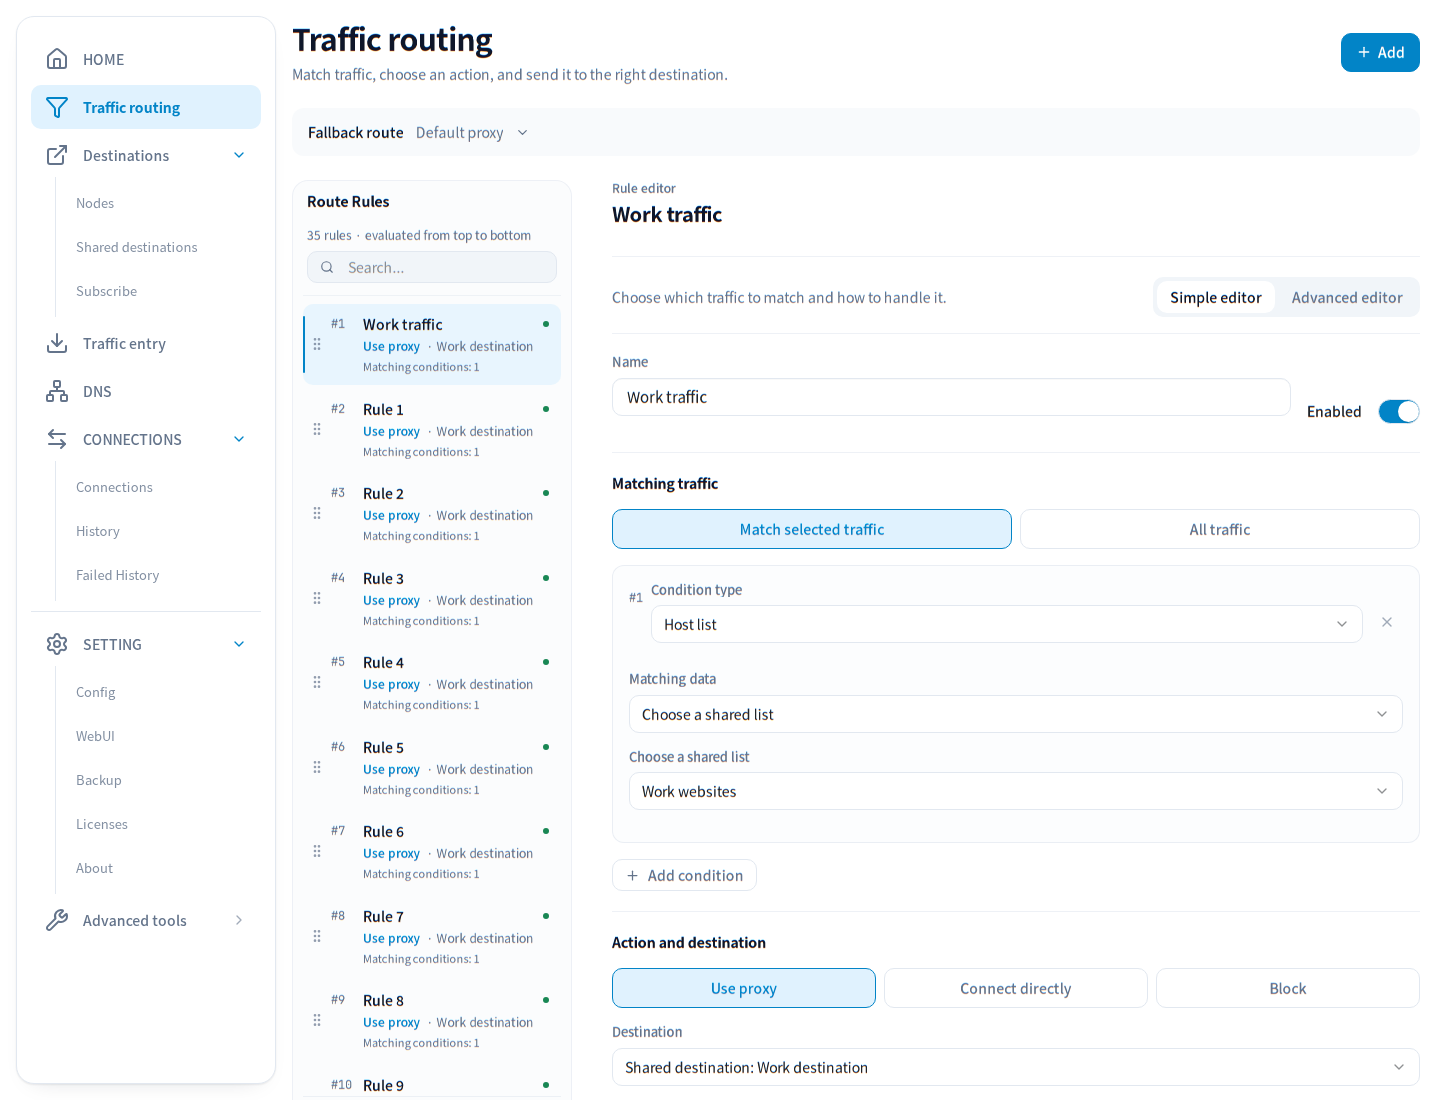
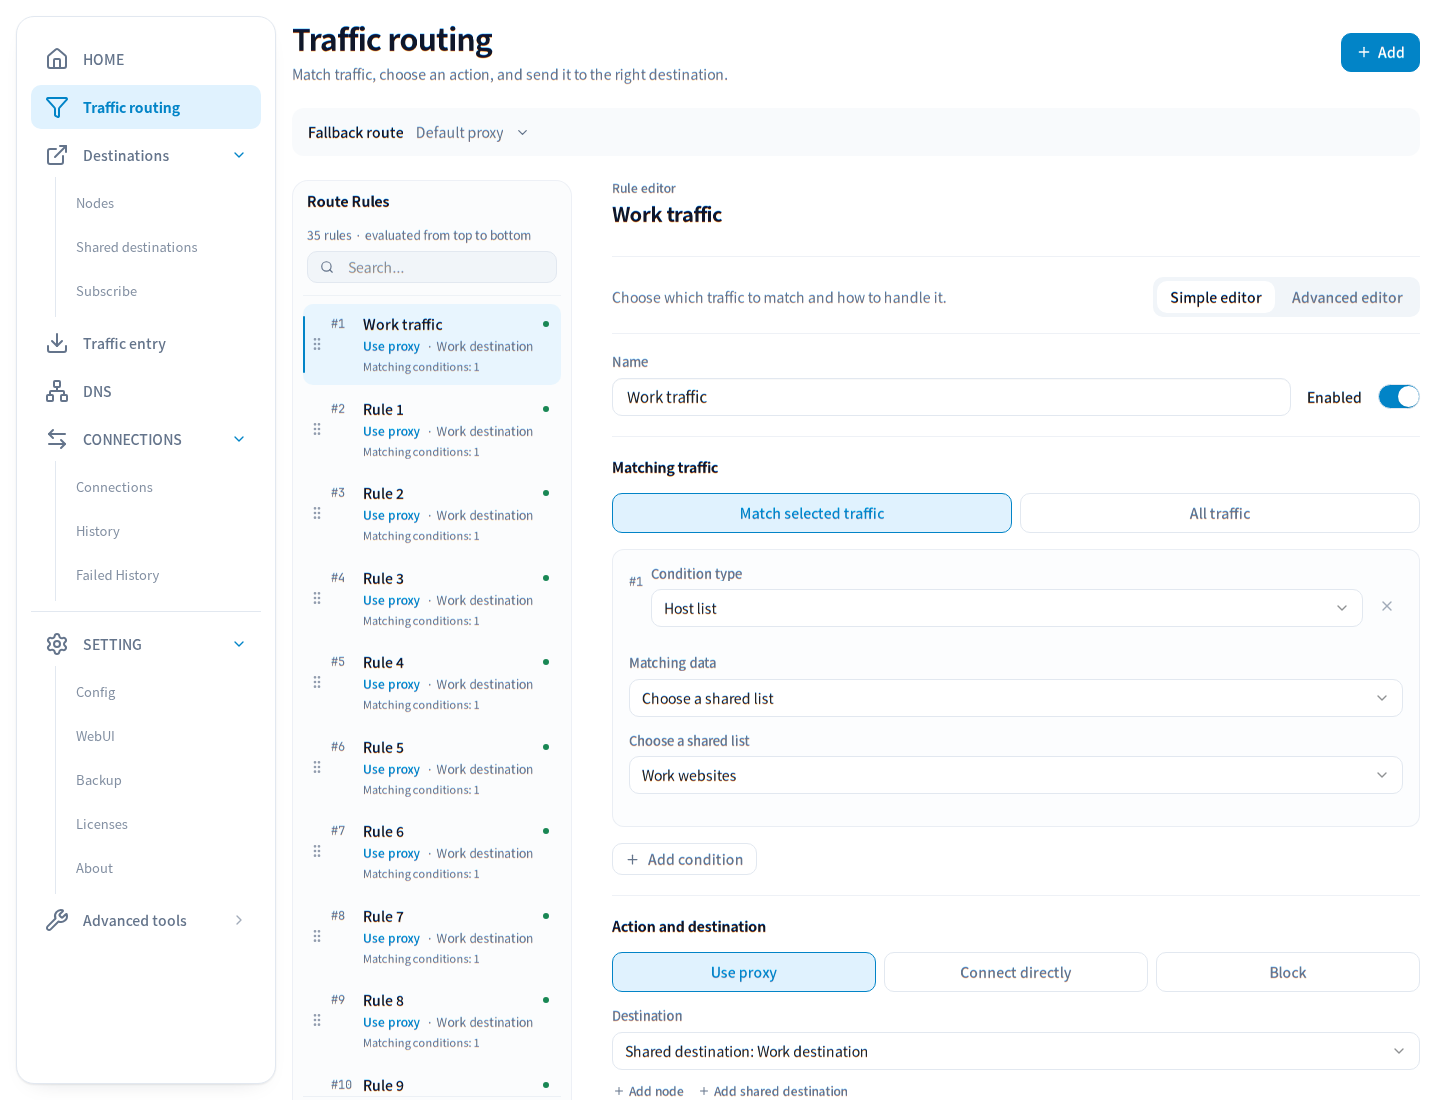
fix(routing): align enabled switch with name input

diff --git a/src/docs/bypass/draft-form.tsx b/src/docs/bypass/draft-form.tsx
@@ -1,11 +1,11 @@
 import { Button } from '@/component/v2/button';
 import { SettingLabel, SettingsBox } from '@/component/v2/card';
 import { SettingInputVertical, SettingSelectVertical } from '@/component/v2/forms';
-import { Textarea } from '@/component/v2/input';
+import { Input, Textarea } from '@/component/v2/input';
 import SwitchComponent from '@/component/v2/switch';
 import { RouteTargetPicker } from '@/component/route-target-picker';
 import { createDefaultRouteList, type RuleDraft } from '@/contract/route';
-import { useState } from 'react';
+import { useId, useState } from 'react';
 import { createID } from '@/common/id';
 import clsx from 'clsx';
 import { useTranslation } from 'react-i18next';
@@ -16,6 +16,7 @@ import { SimpleConditions, type PrivateChoiceHistory } from './simple-conditions
 export function RuleDraftForm({ value, onChange, options }: { value: RuleDraft; onChange: (value: RuleDraft) => void; options: RuleEditorOptions }) {
     const { t } = useTranslation('routing');
     const { t: uiT } = useTranslation('ui');
+    const nameId = useId();
     const matcher = parseSimpleMatcher(value.rule.rules);
     const used = referencedLists(value.rule.rules ?? []);
     const needsAdvanced = !matcher || value.lists.some(list => used.has(list.id) && list.source.type !== 'local');
@@ -61,11 +62,14 @@ export function RuleDraftForm({ value, onChange, options }: { value: RuleDraft; 
             <Button size="sm" onClick={addList}>{t('addMatchingData')}</Button>
 
         </> : matcher && <>
-            <div className="flex min-w-0 items-end gap-4">
-                <SettingInputVertical className="mb-0 min-w-0 flex-1" label={t('name')} value={value.rule.name}
-                    onChange={name => patchRule({ name })} />
-                <div className="shrink-0 pb-2 text-sm"><SwitchComponent label={uiT('enabled')} checked={!value.rule.disabled}
-                    onCheckedChange={enabled => patchRule({ disabled: !enabled })} /></div>
+            <div className="min-w-0">
+                <SettingLabel htmlFor={nameId}>{t('name')}</SettingLabel>
+                <div className="flex min-w-0 items-center gap-4">
+                    <Input id={nameId} className="min-w-0 flex-1" value={value.rule.name}
+                        onChange={event => patchRule({ name: event.target.value })} />
+                    <div className="shrink-0 text-sm"><SwitchComponent label={uiT('enabled')} checked={!value.rule.disabled}
+                        onCheckedChange={enabled => patchRule({ disabled: !enabled })} /></div>
+                </div>
             </div>
             {hiddenSettings && <div role="status" className="flex flex-wrap items-center justify-between gap-3 rounded-ui-md border border-ui-border bg-ui-surface-muted/50 px-3 py-2.5">
                 <p className="text-sm text-ui-muted">{t('customOptions')}</p>
